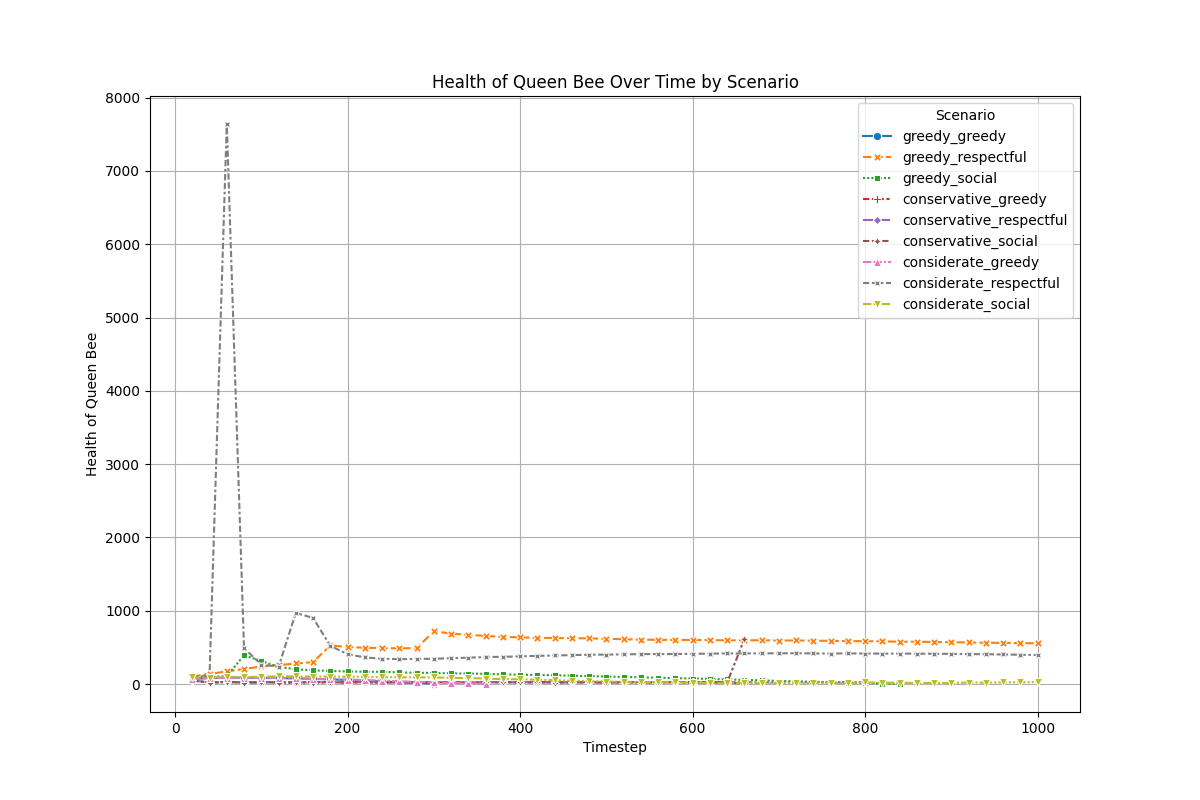
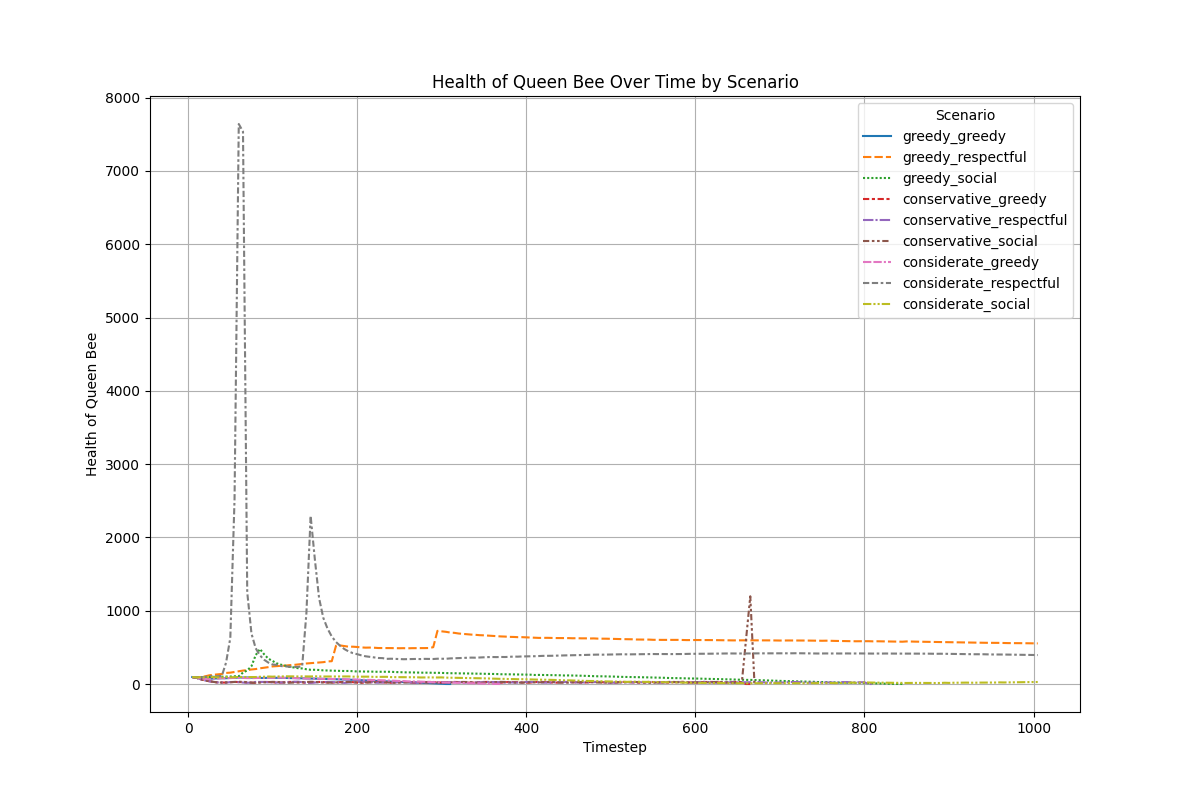
fixed plots

diff --git a/plot.py b/plot.py
@@ -4,23 +4,23 @@ import seaborn as sns
 
 # File names
 filenames = [
-    'weak_wasp/greedy_greedy.csv', 
-    'weak_wasp/greedy_respectful.csv', 
-    'weak_wasp/greedy_social.csv', 
-    'weak_wasp/conservative_greedy.csv', 
-    'weak_wasp/conservative_respectful.csv', 
-    'weak_wasp/conservative_social.csv',
-    'weak_wasp/considerate_greedy.csv',
-    'weak_wasp/considerate_respectful.csv',
-    'weak_wasp/considerate_social.csv'
+    'data_powerful_wasp/greedy_greedy.csv', 
+    'data_powerful_wasp/greedy_respectful.csv', 
+    'data_powerful_wasp/greedy_social.csv', 
+    'data_powerful_wasp/conservative_greedy.csv', 
+    'data_powerful_wasp/conservative_respectful.csv', 
+    'data_powerful_wasp/conservative_social.csv',
+    'data_powerful_wasp/considerate_greedy.csv',
+    'data_powerful_wasp/considerate_respectful.csv',
+    'data_powerful_wasp/considerate_social.csv'
 ]
 
 # Read each file and add a scenario label
 dataframes = []
 for file in filenames:
     df = pd.read_csv(file)
-    df = df[df['timestep'] % 20 == 0]  # Filter to keep only rows where timestep is a multiple of 10
-    df['scenario'] = file.replace('weak_wasp/', '').replace('.csv', '')  # Add scenario as a column with simplified names
+    df = df[df['timestep'] % 5 == 0]  # Filter to keep only rows where timestep is a multiple of 10
+    df['scenario'] = file.replace('data_powerful_wasp/', '').replace('.csv', '')  # Add scenario as a column with simplified names
     dataframes.append(df)
 
 # Concatenate all dataframes into one
@@ -28,51 +28,51 @@ combined_data = pd.concat(dataframes, ignore_index=True)
 
 
 plt.figure(figsize=(12, 8))
-sns.lineplot(data=combined_data, x='timestep', y='alive_queen1', hue='scenario', style='scenario', markers=True)
+sns.lineplot(data=combined_data, x='timestep', y='alive_queen1', hue='scenario', style='scenario', markers=False)
 plt.title('Number of Alive Bees in Queen Bee Over Time by Scenario')
 plt.xlabel('Timestep')
 plt.ylabel('Number of Alive Bees in Queen Bee')
 plt.legend(title='Scenario')
 plt.grid(True)
-plt.savefig('plots_weak_wasp/num_alive_bees.png')
+plt.savefig('plots_powerful_wasp/num_alive_bees.png')
 plt.close()
 
 plt.figure(figsize=(12, 8))
-sns.lineplot(data=combined_data, x='timestep', y='dead_queen1', hue='scenario', style='scenario', markers=True)
+sns.lineplot(data=combined_data, x='timestep', y='dead_queen1', hue='scenario', style='scenario', markers=False)
 plt.title('Number of Dead Bees in Queen Bee Over Time by Scenario')
 plt.xlabel('Timestep')
 plt.ylabel('Number of Dead Bees in Queen Bee')
 plt.legend(title='Scenario')
 plt.grid(True)
-plt.savefig('plots_weak_wasp/num_dead_bees.png')
+plt.savefig('plots_powerful_wasp/num_dead_bees.png')
 plt.close()
 
 plt.figure(figsize=(12, 8))
-sns.lineplot(data=combined_data, x='timestep', y='food_queen1', hue='scenario', style='scenario', markers=True)
+sns.lineplot(data=combined_data, x='timestep', y='food_queen1', hue='scenario', style='scenario', markers=False)
 plt.title('Food Stored in Queen Bee Over Time by Scenario')
 plt.xlabel('Timestep')
 plt.ylabel('Food Stored in Queen Bee')
 plt.legend(title='Scenario')
 plt.grid(True)
-plt.savefig('plots_weak_wasp/food_stored.png')
+plt.savefig('plots_powerful_wasp/food_stored.png')
 plt.close()
 
 plt.figure(figsize=(12, 8))
-sns.lineplot(data=combined_data, x='timestep', y='health_queen1', hue='scenario', style='scenario', markers=True)
+sns.lineplot(data=combined_data, x='timestep', y='health_queen1', hue='scenario', style='scenario', markers=False)
 plt.title('Health of Queen Bee Over Time by Scenario')
 plt.xlabel('Timestep')
 plt.ylabel('Health of Queen Bee')
 plt.legend(title='Scenario')
 plt.grid(True)
-plt.savefig('plots_weak_wasp/health.png')
+plt.savefig('plots_powerful_wasp/health.png')
 plt.close()
 
 plt.figure(figsize=(12, 8))
-sns.lineplot(data=combined_data, x='timestep', y='presence_queen1', hue='scenario', style='scenario', markers=True)
+sns.lineplot(data=combined_data, x='timestep', y='presence_queen1', hue='scenario', style='scenario', markers=False)
 plt.title('Number of Bees Present in Queen Bee Over Time by Scenario')
 plt.xlabel('Timestep')
 plt.ylabel('Number of Bees Present in Queen Bee')
 plt.legend(title='Scenario')
 plt.grid(True)
-plt.savefig('plots_weak_wasp/num_bees_present.png')
+plt.savefig('plots_powerful_wasp/num_bees_present.png')
 plt.close()
